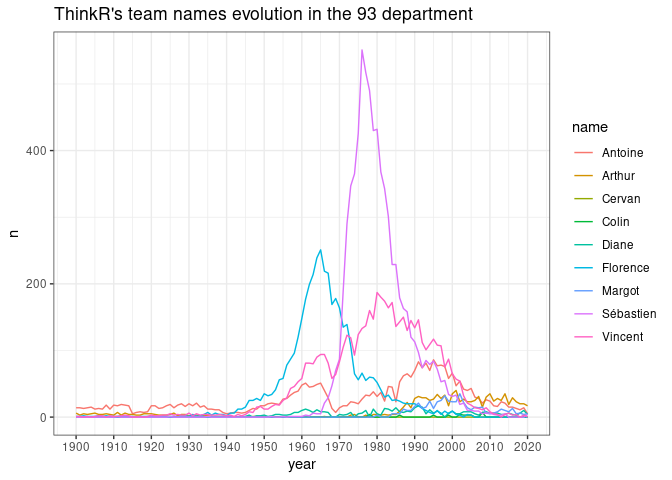
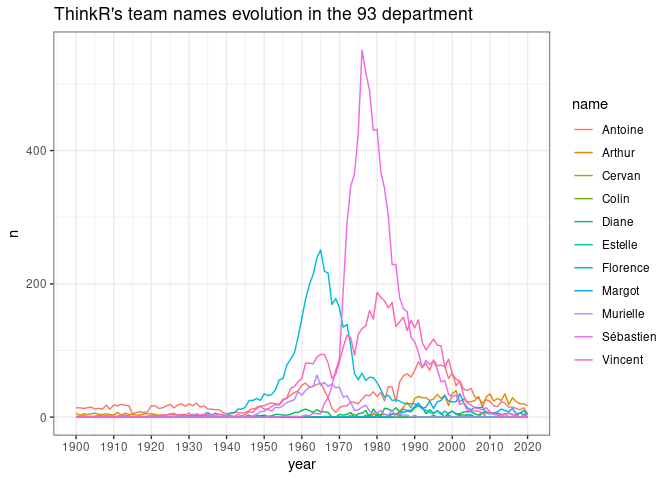
Add new team members
Namely Estelle and Murielle.

diff --git a/README.md b/README.md
@@ -51,9 +51,11 @@ through time:
 -   [Cervan](https://github.com/Cervangirard)
 -   [Vincent](https://github.com/VincentGuyader)
 -   [Margot](https://github.com/MargotBr)
+-   Estelle
 -   [Arthur](https://github.com/ArthurData)
 -   [Antoine](https://github.com/ALanguillaume)
 -   [Florence](https://github.com/FlorenceMounier)
+-   [Murielle](https://github.com/MurielleDelmotte)
 
 Let’s define a dataset holding our names and genders:
 
@@ -65,10 +67,12 @@ team_members <- tribble(
   "Sébastien", "M", 
   "Cervan",    "M", 
   "Vincent",   "M", 
-  "Margot",    "F", 
+  "Margot",    "F",
+  "Estelle",  " F",
   "Arthur",    "M", 
   "Antoine",   "M", 
-  "Florence",  "F" 
+  "Florence",  "F",
+  "Murielle",  "F"
 )
 ```
 
